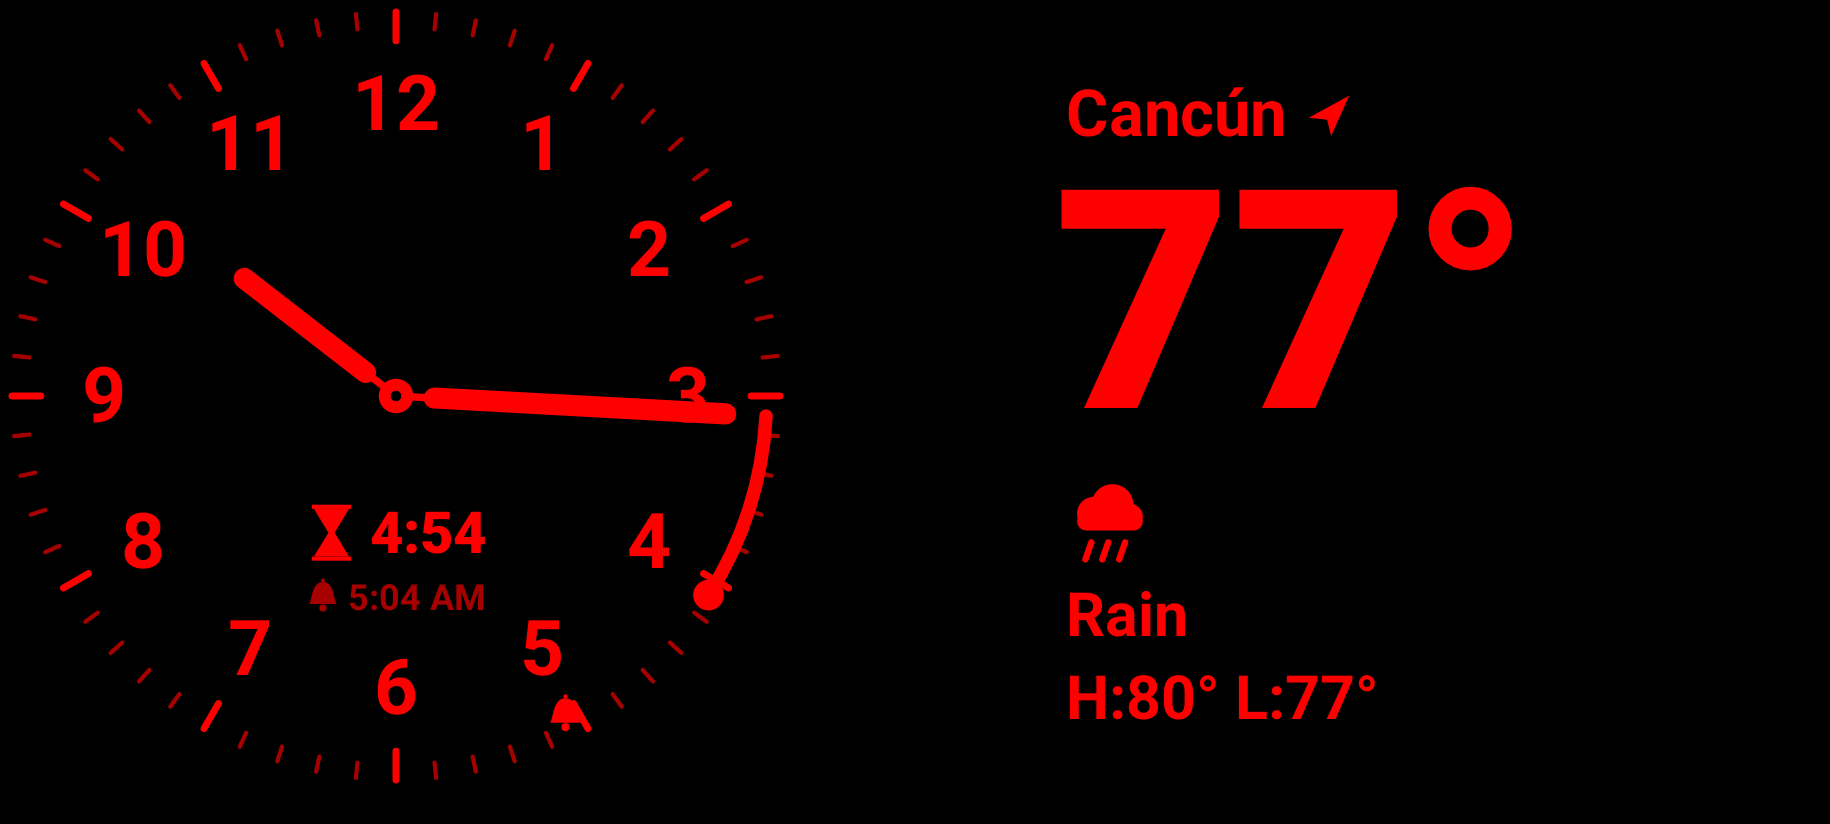
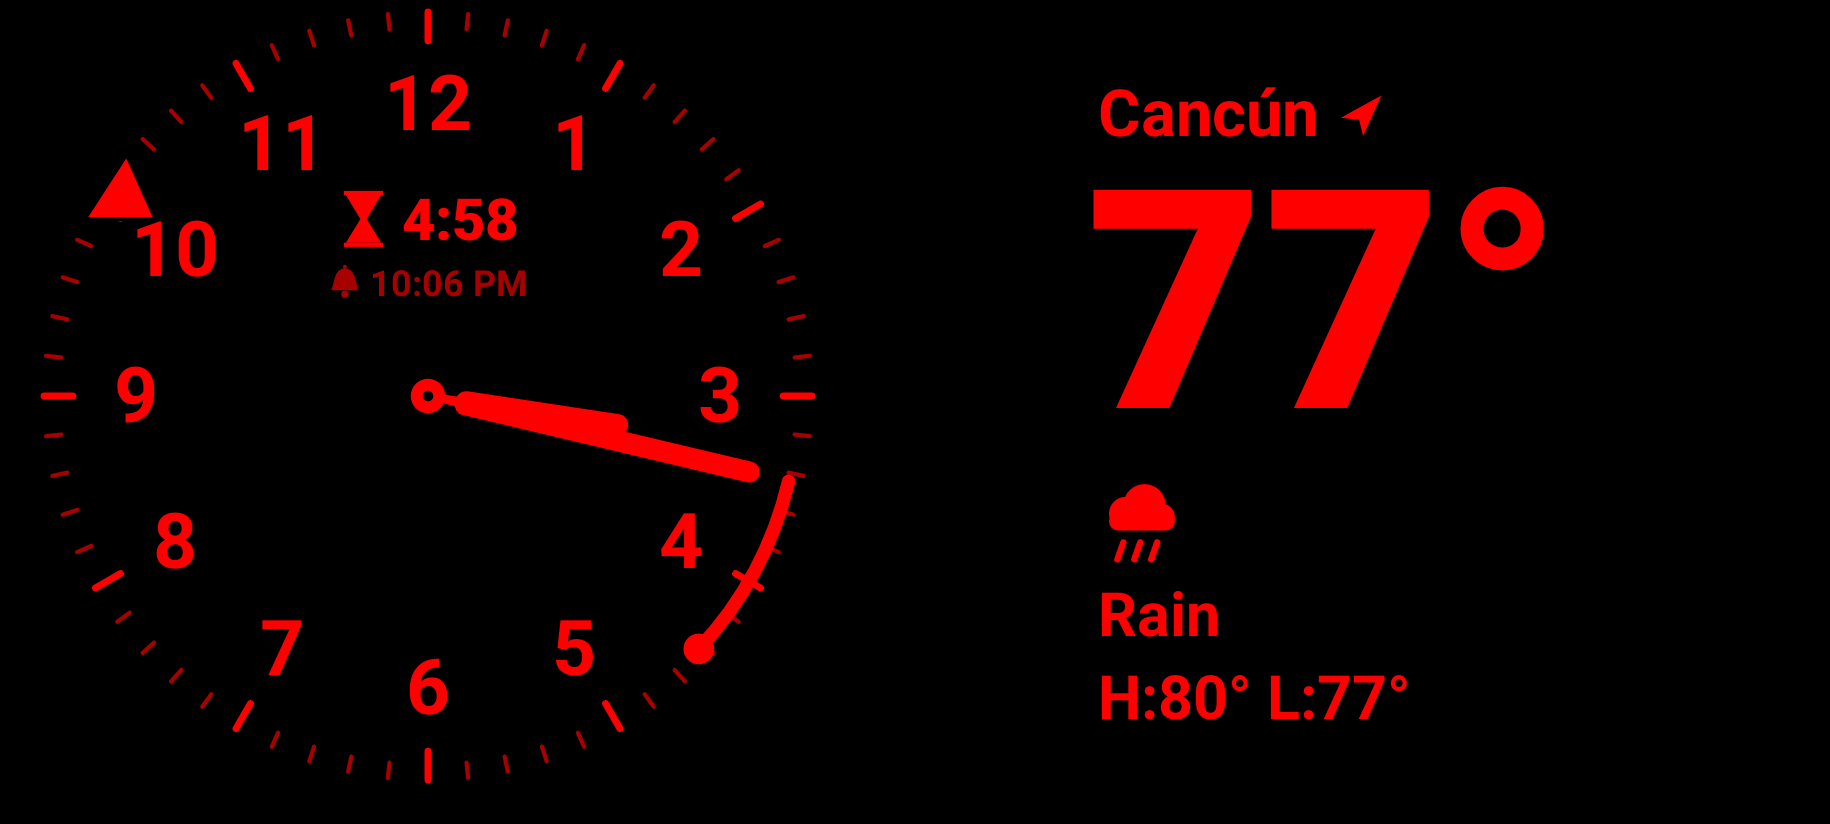
v1.0.3: alarm marker is a triangle on the tick ring (solid ≤12 h, hollow 12–24 h)
Replaces the dotted alarm hand and the bell on the ring. Drawn inside the
tick band (base on the ring, tip short of the numerals) because the S26 ring
is only 14 dp from the screen edge (6 dp with burn-in shift). Ticks under it
are cleared; dimmed for 'expected' alarms; alarm text unchanged.

Claude-Session: https://claude.ai/code/session_015pPo9kWBpSfrW4qGbm18DX

diff --git a/app/src/main/java/com/nightstand/clock/ClockOverlay.kt b/app/src/main/java/com/nightstand/clock/ClockOverlay.kt
@@ -87,11 +87,8 @@ object ClockOverlay {
         x.alarm?.let { a ->
             val at = Calendar.getInstance().apply { timeInMillis = a.triggerAt }
             val deg = (at.get(Calendar.HOUR) + at.get(Calendar.MINUTE) / 60f) * 30f
-            val rad = Math.toRadians(deg.toDouble())
-            val br = r * 0.94f // on the tick ring, clear of the numerals
-            val col = if (a.expected) p.secondary else p.primary
-            drawAlarmHand(c, cx, cy, r, rad, a.triggerAt - x.now, col)
-            Glyphs.bell(c, cx + (sin(rad) * br).toFloat(), cy - (cos(rad) * br).toFloat(), r * 0.095f, col)
+            drawAlarmTriangle(c, cx, cy, r, deg, hollow = !alarmWithin12h(a.triggerAt - x.now),
+                color = if (a.expected) p.secondary else p.accent, background = p.background)
         }
 
         // Readout, opposite the hour hand.
@@ -123,31 +120,31 @@ object ClockOverlay {
         }
     }
 
-    private val dot = Paint(Paint.ANTI_ALIAS_FLAG)
+    private val tri = Paint(Paint.ANTI_ALIAS_FLAG).apply { strokeJoin = Paint.Join.ROUND }
+
+    /** Solid triangle within 12 h (this turn of the dial), hollow for 12–24 h. */
+    fun alarmWithin12h(untilMs: Long) = untilMs <= 12 * 3_600_000L
 
     /**
-     * Dotted "alarm hand" from the hub to the bell, under the real hands, so the
-     * alarm reads at a glance. Dense dots: rings within 12 h (this turn of the
-     * dial). Sparse dots: 12–24 h away (the bell sits at the same spot, one turn
-     * later). Spacing/size come from [alarmHandDots] (unit-tested).
+     * Alarm marker ON the tick ring: base on the ring, tip pointing to the centre,
+     * stopping just outside the numerals (≈0.86 r). Not outside the ring: on the
+     * S26 the ring is only 14 dp from the screen edge (6 dp with burn-in shift),
+     * and an outside marker needs ~23 dp. Ticks under it are cleared so the
+     * hollow version reads cleanly. (docs/previews/alarm-triangle-on-ring.png)
      */
-    private fun drawAlarmHand(c: Canvas, cx: Float, cy: Float, r: Float, rad: Double, untilMs: Long, color: Int) {
-        val (gap, radius) = alarmHandDots(untilMs)
-        dot.color = color
-        dot.alpha = (android.graphics.Color.alpha(color) * 0.75f).toInt()
-        val sx = sin(rad).toFloat(); val sy = -cos(rad).toFloat()
-        var d = r * 0.13f // start clear of the hub
-        val end = r * 0.85f // stop short of the bell
-        while (d <= end) {
-            c.drawCircle(cx + sx * d, cy + sy * d, r * radius, dot)
-            d += r * gap
+    private fun drawAlarmTriangle(c: Canvas, cx: Float, cy: Float, r: Float, deg: Float, hollow: Boolean, color: Int, background: Int) {
+        fun pt(d: Float, rr: Float) = Math.toRadians(d.toDouble()).let { (cx + sin(it) * rr).toFloat() to (cy - cos(it) * rr).toFloat() }
+        val half = 5.2f
+        fun tri(h: Float, outer: Float, tip: Float) = android.graphics.Path().apply {
+            val b1 = pt(deg - h, outer); val b2 = pt(deg + h, outer); val t = pt(deg, tip)
+            moveTo(b1.first, b1.second); lineTo(b2.first, b2.second); lineTo(t.first, t.second); close()
         }
+        tri.style = Paint.Style.FILL; tri.color = background
+        c.drawPath(tri(half * 1.25f, r * 1.02f, r * 0.835f), tri) // clear ticks underneath
+        tri.color = color
+        if (hollow) { tri.style = Paint.Style.STROKE; tri.strokeWidth = r * 0.018f } else tri.style = Paint.Style.FILL
+        c.drawPath(tri(half, r, r * 0.855f), tri)
     }
-
-    /** (gap, dot radius) as fractions of the dial radius. */
-    fun alarmHandDots(untilMs: Long): Pair<Float, Float> =
-        if (untilMs <= 12 * 3_600_000L) 0.045f to 0.013f // dense: within 12 h
-        else 0.12f to 0.015f                             // sparse: 12–24 h
 
     fun timerText(tm: RunningTimer, now: Long) =
         if (tm.state == RunningTimer.State.RINGING) "Time's up" else formatCountdown(tm.remainingMs(now))

diff --git a/app/src/test/java/com/nightstand/AlarmTriangleTest.kt b/app/src/test/java/com/nightstand/AlarmTriangleTest.kt
@@ -19,15 +19,14 @@ import java.io.File
 @RunWith(RobolectricTestRunner::class)
 @GraphicsMode(GraphicsMode.Mode.NATIVE)
 @Config(sdk = [34], qualifiers = "w915dp-h412dp-land-xhdpi")
-class AlarmHandTest {
-    @Test fun denseWithin12h_sparseBeyond() {
-        val (gNear, _) = ClockOverlay.alarmHandDots(9 * 3_600_000L)
-        val (gFar, _) = ClockOverlay.alarmHandDots(15 * 3_600_000L)
-        assertTrue(gFar > gNear * 2)
-        assertTrue(ClockOverlay.alarmHandDots(12 * 3_600_000L).first == gNear) // exactly 12 h counts as near
+class AlarmTriangleTest {
+    @Test fun solidWithin12h_hollowBeyond() {
+        assertTrue(ClockOverlay.alarmWithin12h(9 * 3_600_000L))
+        assertTrue(ClockOverlay.alarmWithin12h(12 * 3_600_000L)) // exactly 12 h counts as within
+        assertTrue(!ClockOverlay.alarmWithin12h(15 * 3_600_000L))
     }
 
-    /** Renders both cases for review: build/previews/alarm-hand-{near,far}-{day,night}.png */
+    /** Renders both cases for review: build/previews/alarm-triangle-{near,far}-{day,night}.png */
     @Test fun render() {
         val c = ApplicationProvider.getApplicationContext<android.content.Context>()
         Prefs.setClockStyle(c, Prefs.ClockStyle.ANALOG)
@@ -43,7 +42,7 @@ class AlarmHandTest {
             val b = Bitmap.createBitmap(w, hh, Bitmap.Config.ARGB_8888)
             page.draw(Canvas(b))
             File("build/previews").mkdirs()
-            File("build/previews/alarm-hand-$name-${if (night) "night" else "day"}.png").outputStream().use { b.compress(Bitmap.CompressFormat.PNG, 100, it) }
+            File("build/previews/alarm-triangle-$name-${if (night) "night" else "day"}.png").outputStream().use { b.compress(Bitmap.CompressFormat.PNG, 100, it) }
         }
     }
 }
